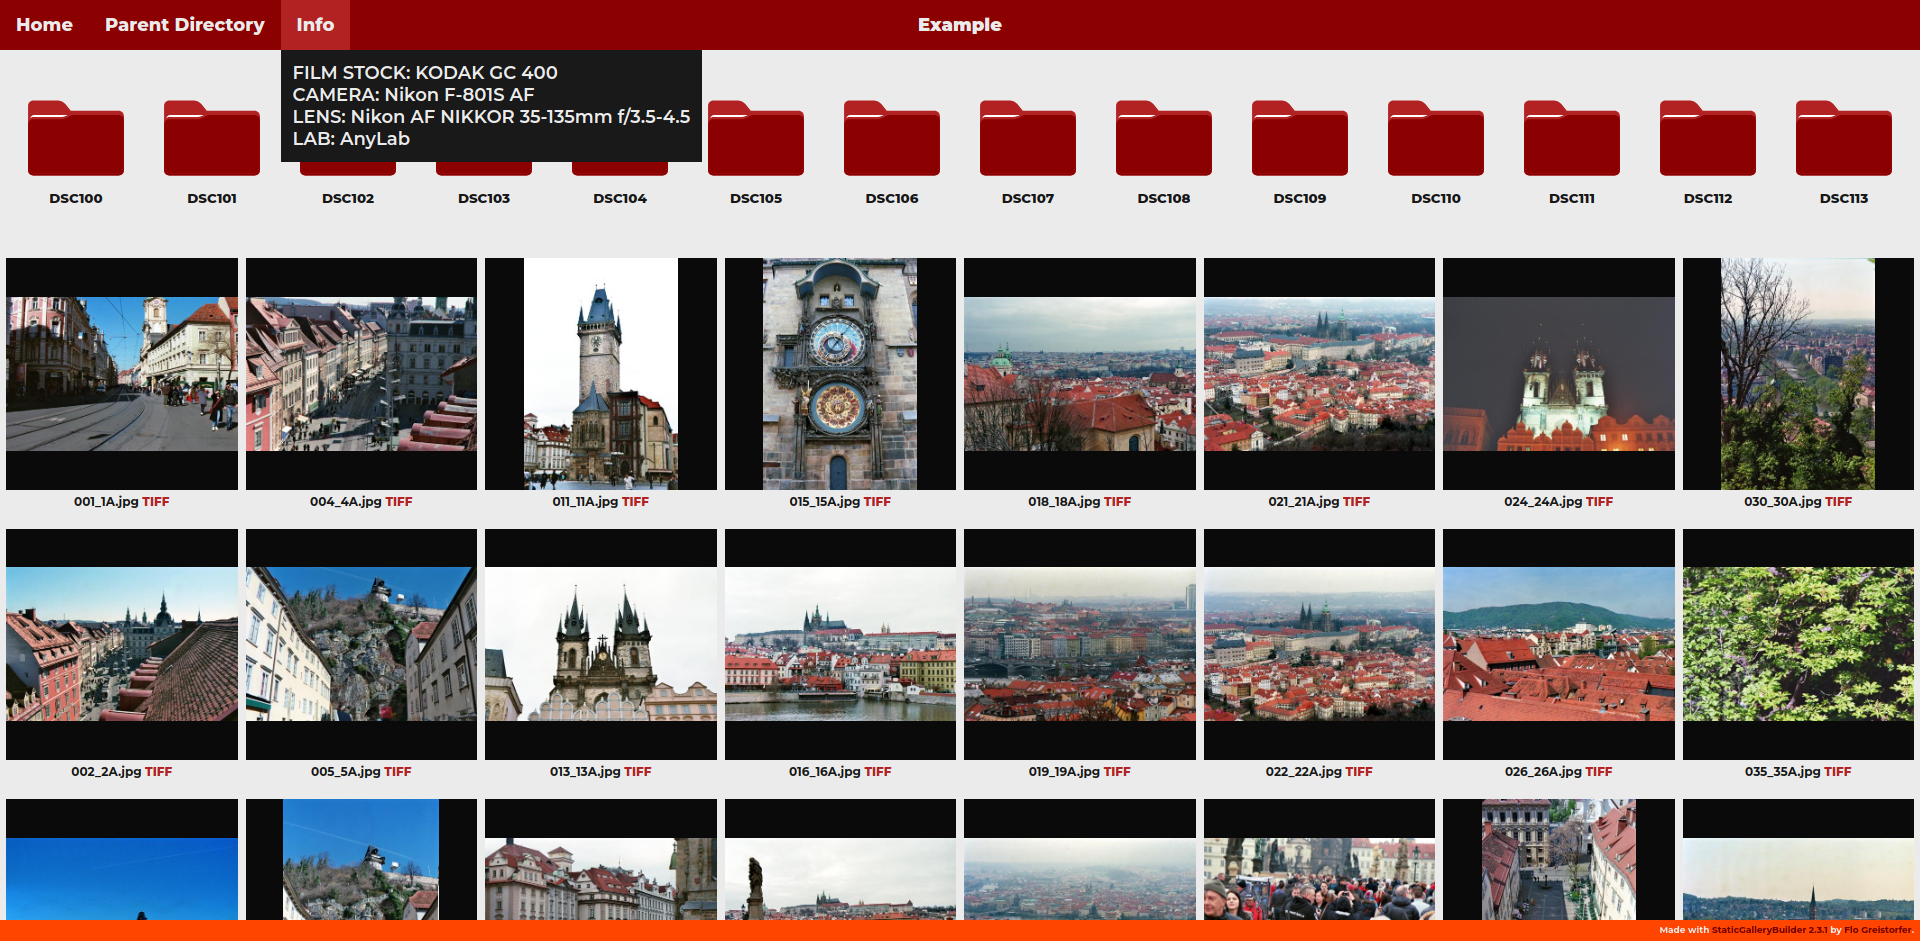
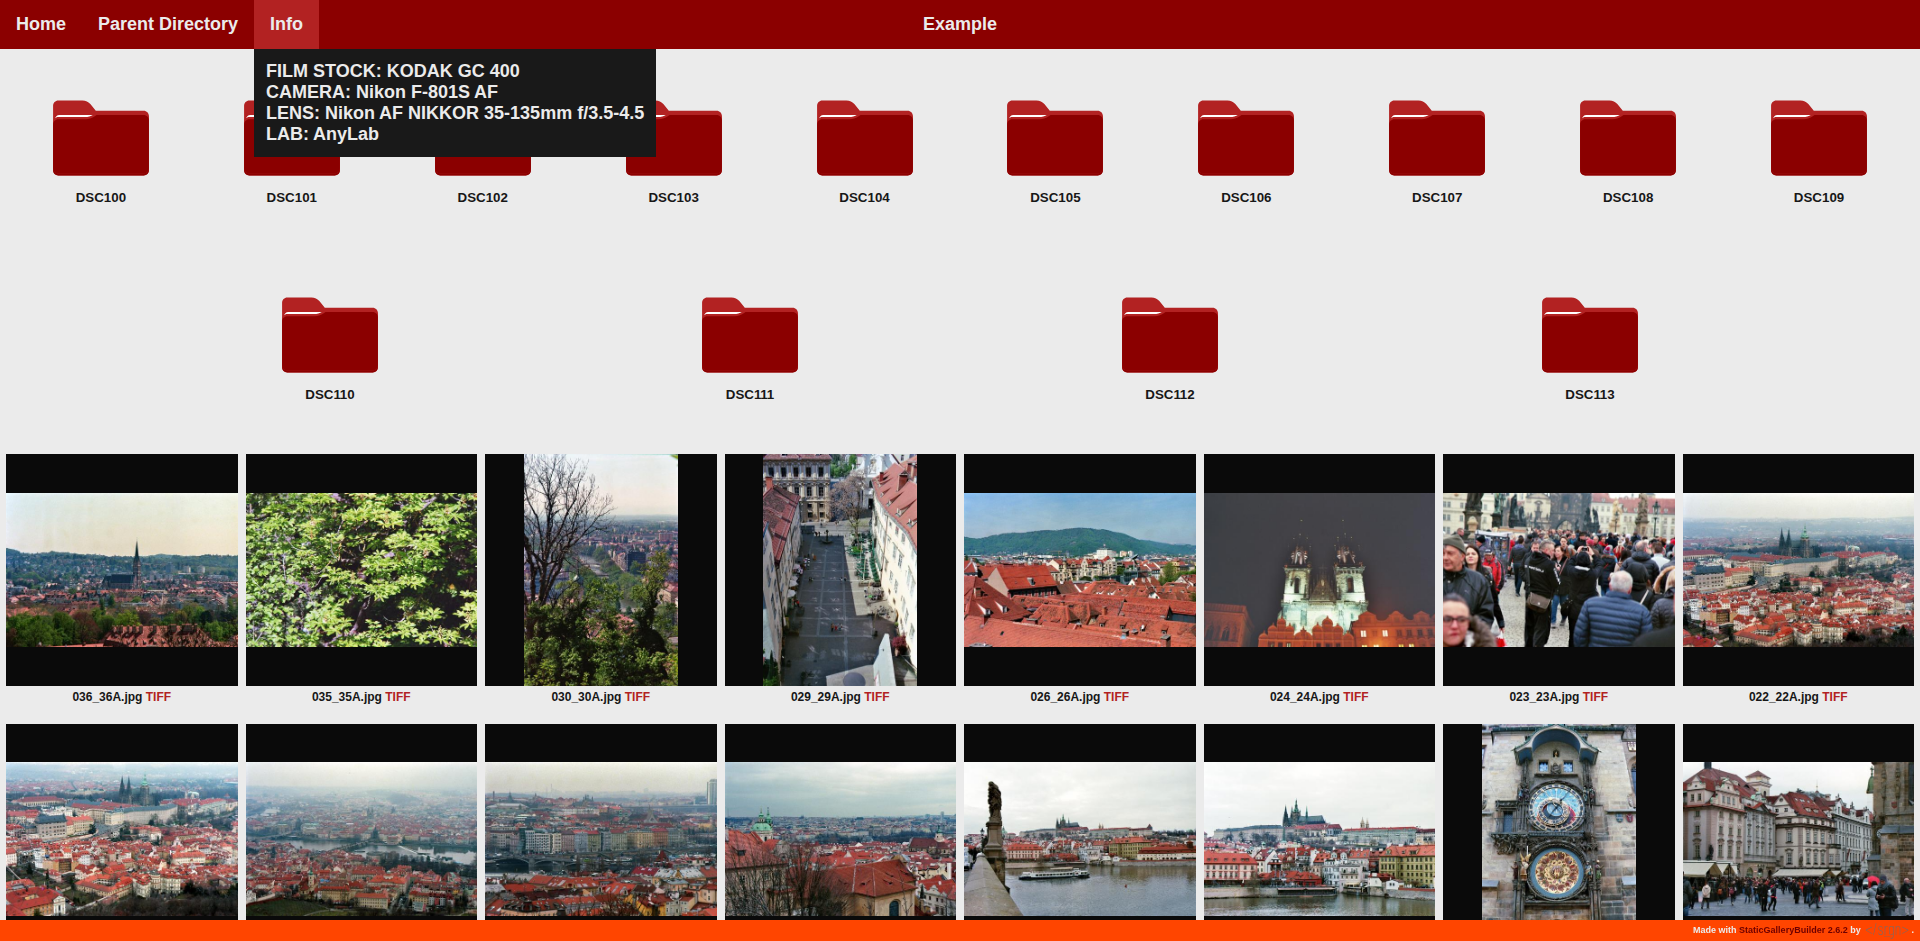
added tagging function as requested in issue #7

diff --git a/test/example/license.html b/test/example/license.html
@@ -6,18 +6,18 @@
   <meta name="viewport" content="width=device-width, initial-scale=1.0">
   <title>example - LICENSE</title>
   <link rel="manifest" href="/.static/manifest.json">
-  <link rel="preload" href="file:///home/user/git/github.com/greflm13/StaticGalleryBuilder/test/.static/global.css" as="style">
-  <link rel="preload" href="file:///home/user/git/github.com/greflm13/StaticGalleryBuilder/test/.static/theme.css" as="style">
-  <link rel="icon" type="image/x-icon" href="file:///home/user/git/github.com/greflm13/StaticGalleryBuilder/test/.static/favicon.ico">
-  <link rel="stylesheet" href="file:///home/user/git/github.com/greflm13/StaticGalleryBuilder/test/.static/global.css">
-  <link rel="stylesheet" href="file:///home/user/git/github.com/greflm13/StaticGalleryBuilder/test/.static/theme.css">
+  <link rel="preload" href="file:///home/user/git/github.com/greflm13/simple-picture-server/test/.static/global.css" as="style">
+  <link rel="preload" href="file:///home/user/git/github.com/greflm13/simple-picture-server/test/.static/theme.css" as="style">
+  <link rel="icon" type="image/x-icon" href="file:///home/user/git/github.com/greflm13/simple-picture-server/test/.static/favicon.ico">
+  <link rel="stylesheet" href="file:///home/user/git/github.com/greflm13/simple-picture-server/test/.static/global.css">
+  <link rel="stylesheet" href="file:///home/user/git/github.com/greflm13/simple-picture-server/test/.static/theme.css">
 </head>
 
 <body>
   <div class="header">
     <ul class="navbar">
-      <li><a href="file:///home/user/git/github.com/greflm13/StaticGalleryBuilder/test/">Home</a></li>
-      <li><a href="file:///home/user/git/github.com/greflm13/StaticGalleryBuilder/test/example/">Parent Directory</a></li>
+      <li><a href="file:///home/user/git/github.com/greflm13/simple-picture-server/test/">Home</a></li>
+      <li><a href="file:///home/user/git/github.com/greflm13/simple-picture-server/test/example/">Parent Directory</a></li>
       <li class="title"><span class="header">example - LICENSE</span></li>
     </ul>
   </div>
@@ -453,14 +453,14 @@ Creative Commons may be contacted at creativecommons.org.</br>
   </div>
   
   <div class="footer" xmlns:cc="http://creativecommons.org/ns#" xmlns:dct="http://purl.org/dc/terms/">
-    <a property="dct:title" rel="cc:attributionURL" href="file:///home/user/git/github.com/greflm13/StaticGalleryBuilder/test/">Pictures</a> by <span property="cc:attributionName">Author</span> is licensed under
+    <a property="dct:title" rel="cc:attributionURL" href="file:///home/user/git/github.com/greflm13/simple-picture-server/test/">Pictures</a> by <span property="cc:attributionName">Author</span> is licensed under
     <a href="https://creativecommons.org/licenses/by-nc-sa/4.0/" target="_blank" rel="license noopener noreferrer">CC BY-NC-SA 4.0
       <img src="https://mirrors.creativecommons.org/presskit/icons/cc.svg" alt="" />
       <img src="https://mirrors.creativecommons.org/presskit/icons/by.svg" alt="" />
       <img src="https://mirrors.creativecommons.org/presskit/icons/nc.svg" alt="" />
       <img src="https://mirrors.creativecommons.org/presskit/icons/sa.svg" alt="" />
     </a>
-    <span class="attribution">Made with <a href="https://github.com/greflm13/StaticGalleryBuilder" target="_blank" rel="noopener noreferrer">StaticGalleryBuilder 2.5.0</a> by <a
+    <span class="attribution">Made with <a href="https://github.com/greflm13/StaticGalleryBuilder" target="_blank" rel="noopener noreferrer">StaticGalleryBuilder 2.7.0</a> by <a
         href="https://github.com/greflm13" target="_blank" rel="noopener noreferrer"><svg width="48.858002mm" height="21.24mm" viewBox="0 0 48.858002 21.24" version="1.1" id="svg1" xmlns="http://www.w3.org/2000/svg" xmlns:svg="http://www.w3.org/2000/svg"> <text xml:space="preserve" x="21.124891" y="17.106812" font-style="normal" font-variant="normal" font-weight="300" font-stretch="condensed" font-size="2.46944px" line-height="9.33327px" font-family="Barlow Condensed Light" fill="#6e6e6e" stroke-width="1" fill-opacity="1">sorogon</text> <text xml:space="preserve" x="2.3734004" y="14.853325" font-style="normal" font-variant="normal" font-weight="250" font-stretch="condensed" font-size="16.9333px" line-height="63.9997px" font-family="Barlow Condensed Thin" fill="#6e6e6e" stroke-width="1" fill-opacity="1">&lt;/srgn&gt;</text> </svg></a>.</span>
     <button onclick="topFunction()" id="totop" title="Back to Top">Back to Top</button>
   </div>

diff --git a/files/global.css b/files/global.css
@@ -131,14 +131,18 @@ figure {
   text-decoration: none;
 }
 
-.navbar .title {
+.navbar .navleft {
+  float: left;
+}
+
+.navbar .navcenter {
   position: absolute;
   left: 50%;
   transform: translateX(-50%);
 }
 
-.navbar .license {
-  float: right;
+.navbar .navright {
+  float: right
 }
 
 .navbar li .header {
@@ -150,16 +154,26 @@ figure {
 
 .tooltip {
   position: relative;
+  cursor: pointer;
 }
 
 .tooltip .tooltiptext {
   display: none;
+  cursor: default;
   width: max-content;
   position: absolute;
   z-index: 100;
   opacity: 0;
   transition: opacity 0.3s;
+  float: left;
+}
+
+.tooltip .infotext {
   padding: 12px;
+}
+
+.tooltip .tagdropdown {
+  padding: 0;
 }
 
 .tooltip:hover .tooltiptext {
@@ -170,6 +184,22 @@ figure {
 .tooltip:active .tooltiptext {
   display: block;
   opacity: 1;
+}
+
+.tooltip .tooltiptext .tagentry {
+  list-style: none;
+  width: 100%;
+  cursor: pointer;
+  margin: 0;
+  padding: 0;
+}
+
+.tooltip .tooltiptext .tagentry label {
+  cursor: pointer;
+  width: 100%;
+  height: 100%;
+  padding: 12px;
+  display: block;
 }
 
 .column {

diff --git a/themes/summer.css b/themes/summer.css
@@ -80,6 +80,11 @@
   font-family: "Roboto", sans-serif;
 }
 
+.tagentry:hover {
+  background-color: var(--bcolor3);
+  color: var(--bcolor2);
+}
+
 .column img {
   background-color: var(--bcolor4);
 }

diff --git a/themes/alpenglow-dark.css b/themes/alpenglow-dark.css
@@ -97,6 +97,10 @@ body {
   background-color: var(--color6);
 }
 
+.tagentry:hover {
+  background-color: var(--color3);
+}
+
 .column img {
   background-color: var(--bcolor2);
 }

diff --git a/themes/alpenglow.css b/themes/alpenglow.css
@@ -96,6 +96,10 @@ body {
   background-color: var(--color3);
 }
 
+.tagentry:hover {
+  background-color: var(--color7);
+}
+
 .column img {
   background-color: var(--bcolor1);
 }

diff --git a/themes/autumn.css b/themes/autumn.css
@@ -79,6 +79,10 @@
   font-family: "Playfair Display", serif;
 }
 
+.tagentry:hover {
+  background-color: var(--color3);
+}
+
 .column img {
   background-color: var(--bcolor4);
 }

diff --git a/themes/winter.css b/themes/winter.css
@@ -88,6 +88,10 @@
   font-family: "Montserrat", sans-serif;
 }
 
+.tagentry:hover {
+  background-color: var(--color2);
+}
+
 .column img {
   background-color: var(--bcolor4);
 }

diff --git a/themes/aritim-dark.css b/themes/aritim-dark.css
@@ -74,6 +74,10 @@
   background-color: var(--bcolor1);
 }
 
+.tagentry:hover {
+  background-color: var(--bcolor3);
+}
+
 .column img {
   background-color: var(--bcolor1);
 }

diff --git a/themes/aritim.css b/themes/aritim.css
@@ -74,6 +74,10 @@
   background-color: var(--bcolor1);
 }
 
+.tagentry:hover {
+  background-color: var(--bcolor3);
+}
+
 .column img {
   background-color: var(--bcolor1);
 }

diff --git a/themes/carnation.css b/themes/carnation.css
@@ -73,6 +73,10 @@
   background-color: var(--bcolor2);
 }
 
+.tagentry:hover {
+  background-color: var(--bcolor4);
+}
+
 .column img {
   background-color: var(--bcolor4);
 }

diff --git a/themes/catpuccin.css b/themes/catpuccin.css
@@ -79,6 +79,10 @@
   font-family: "Nunito", sans-serif;
 }
 
+.tagentry:hover {
+  background-color: var(--color4);
+}
+
 .column img {
   background-color: var(--bcolor4);
 }

diff --git a/themes/cornflower.css b/themes/cornflower.css
@@ -73,6 +73,10 @@
   background-color: var(--bcolor2);
 }
 
+.tagentry:hover {
+  background-color: var(--bcolor4);
+}
+
 .column img {
   background-color: var(--bcolor4);
 }
